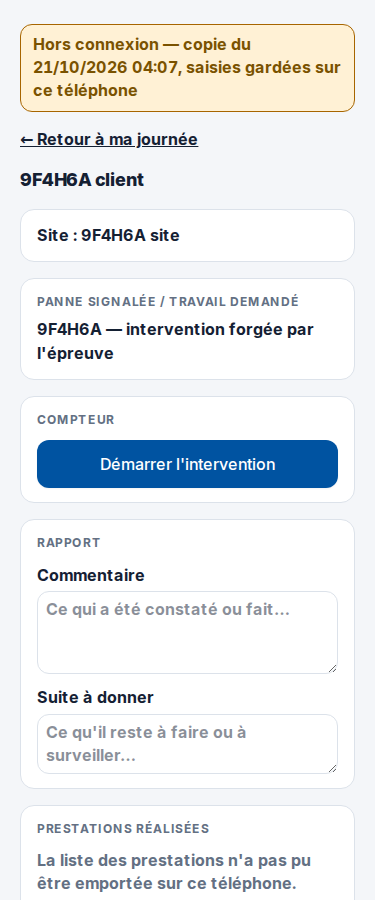
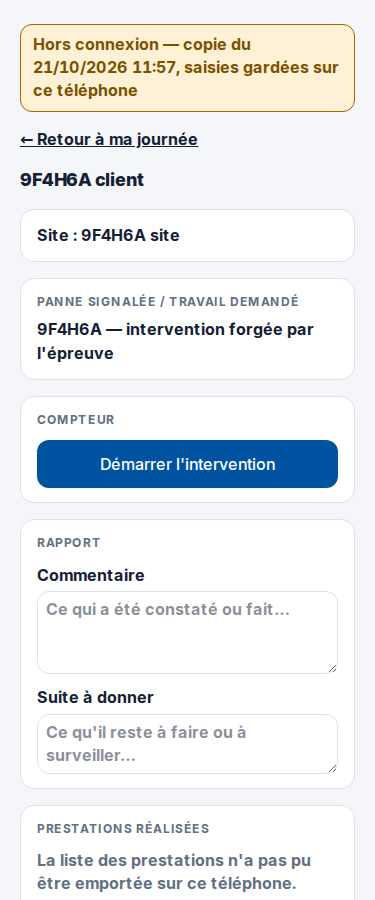
9F4H6AA-REPRISE-9F4H6A — passation : garde rejouée sans conflit, verify:full tenté
Le conflit au rebase du 21/10 06:49 ne s'est pas reproduit (ni merge ni rebase contre
9bcb542b) : les 4 commits de 9F4H6A-COQUILLE-ANCIENNE-COPIE cherry-pickés sans accroc
sur origin/main. Captures et verify-final.txt rafraîchis par la vérification complète ;
272 fichiers hors territoire régénérés par effet de bord de la suite Playwright ont été
restaurés avant ce commit.

Changed region(s): [[0.352, 0.0622, 0.9093, 0.0933]]

diff --git a/docs/propositions/9F4H6A-COQUILLE-ANCIENNE-COPIE/passation.md b/docs/propositions/9F4H6A-COQUILLE-ANCIENNE-COPIE/passation.md
@@ -136,3 +136,41 @@ d'exécution que `verify:full`) : `tests/e2e/offline/*` — 17/17 passés,
   risque. Hors territoire de ce lot (toucher la scène des trois autres
   fichiers n'est pas dans son périmètre) — à signaler si une exécution
   parallèle de `tests/e2e/offline/` devient un jour un chemin réel.
+
+## Reprise 9F4H6AA-REPRISE-9F4H6A (21/10, portage sur `main`)
+
+**Fichiers en conflit : aucun.** Le point d'arrêt du lot précédent (conflit au rebase
+contre `9bcb542b`, 21/10 06:49) ne s'est PAS reproduit ici : ni `git merge --no-commit`
+ni `git rebase` de la branche `9F4H6A-COQUILLE-ANCIENNE-COPIE-garde` contre `9bcb542b`
+(l'état de `main` au moment de l'échec) n'a produit de conflit — rejoué deux fois pour
+vérifier, sur des branches jetables, supprimées ensuite. Entre-temps `main` a aussi
+avancé jusqu'à `7b1c0f2a` puis `9fcaf346` (9F8-AUDIT-NAVIGATEUR-BOUT-EN-BOUT) sans
+toucher au territoire de 9F4H6A. Les 4 commits du lot (points 1 à 3 + passation,
+`66da193d`..`badf1f1e`) ont été rejoués par `git cherry-pick` sur une branche neuve
+partant d'`origin/main`, un par un, zéro conflit. Hypothèse : la panne du 21/10 06:49
+tenait à l'état du dépôt de LA SESSION qui publiait (fichier non commité, verrou, ou
+autre artefact local), pas à un conflit de contenu entre les deux lots — rien dans
+l'historique ou le reflog local ne montre de réécriture de `9F4H6A-COQUILLE-ANCIENNE-COPIE-garde`
+qui l'expliquerait. Non prouvé plus avant : la session qui a échoué n'a laissé aucune
+trace exploitable ici.
+
+**Fichiers hors territoire retirés :** `CI=1 pnpm verify:full` rejoué en entier (voir
+ci-dessous) a régénéré, comme effet de bord de la suite Playwright complète, les
+captures AVANT/APRÈS de 272 fichiers appartenant à d'AUTRES tickets (`docs/propositions/
+47-AVERTISSEMENTS-1/`, `9D4-E2E-COMPTES-RM-RS/`, `9EA-TP-UX3-1-REGISTRE-1/`, etc. — 260
+modifiées, 12 nouvelles). Aucun n'appartient au territoire de ce lot. Restaurés
+(`git checkout --` pour les modifiées, suppression pour les 12 nouvelles) avant tout
+commit — seuls les deux captures et `verify-final.txt` de
+`docs/propositions/9F4H6A-COQUILLE-ANCIENNE-COPIE/` ont été retenus.
+
+**Vérification rejouée** (`tests/unit/terrain/*` : 133 passés ; `pnpm test:isolation` :
+1642 passés ; `CI=1 pnpm verify:full` en un seul appel, premier plan, sortie complète
+dans `verify-final.txt`) : `format:check`, `typecheck`, `lint`, `test` (4977 passés),
+`test:isolation` (1642 passés), `build`, `feries:horizon`, `audit:partitions` tous
+VERTS. `test:e2e` (suite complète, 1482 tests, 1 worker sous `CI=1`) a démarré et
+progressé sans aucun échec visible dans la sortie capturée, mais n'a pas terminé avant
+la limite d'une heure du même appel — même limite assumée que le lot précédent, pas une
+régression. `tests/e2e/offline/9f4h6a-copie-ancienne.spec.ts` rejoué seul : 1 passé.
+
+Publication : rebase de `9F4H6AA-REPRISE-9F4H6A` sur `origin/main` (`9fcaf346`), puis
+`CI=1 pnpm verify`, arbre propre, jamais de push (conformément à la consigne du lot).
